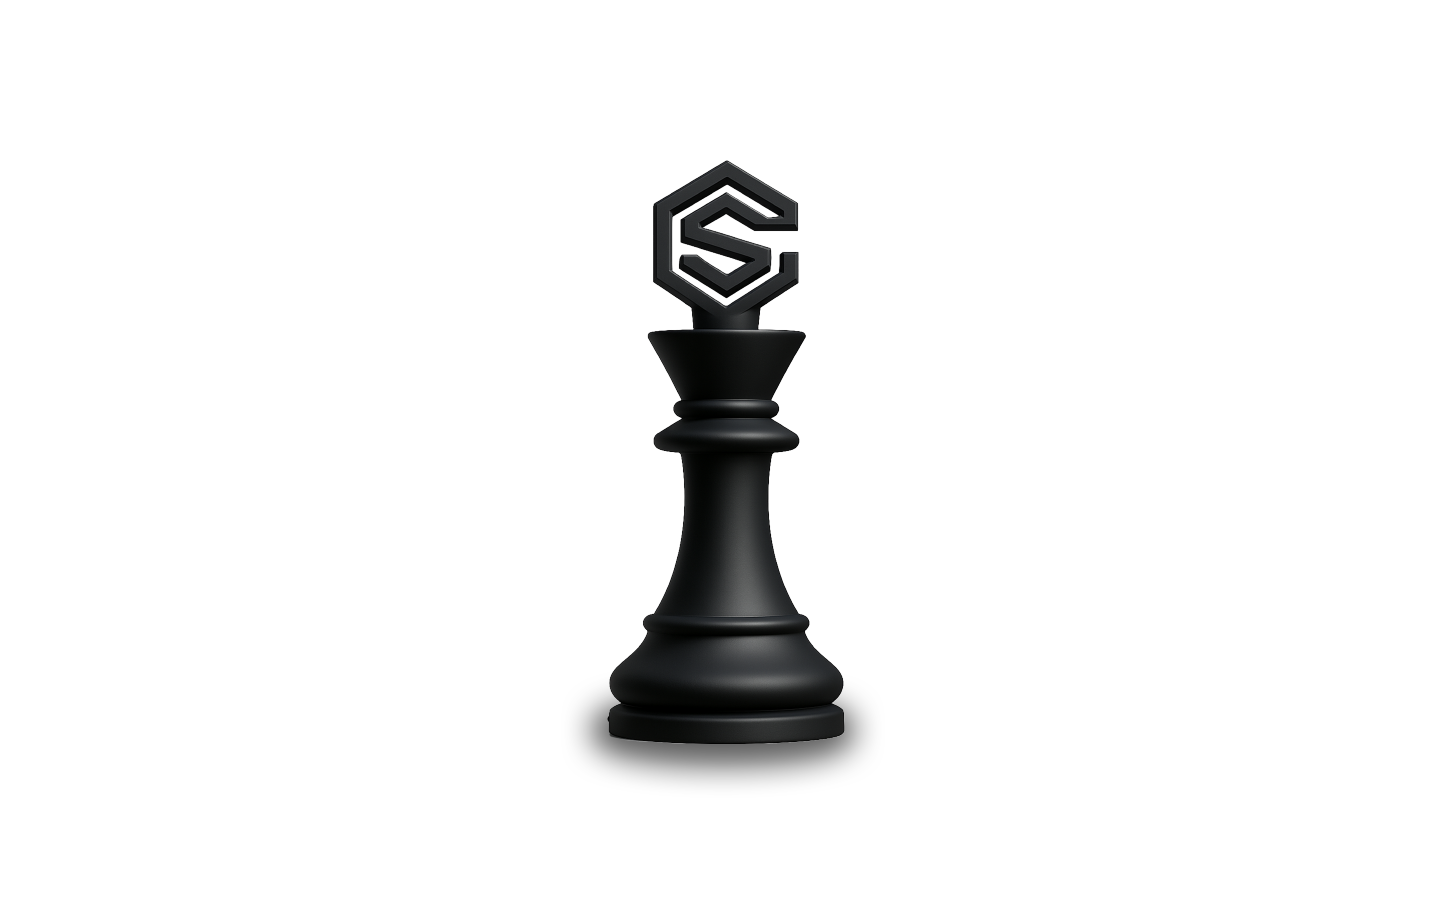
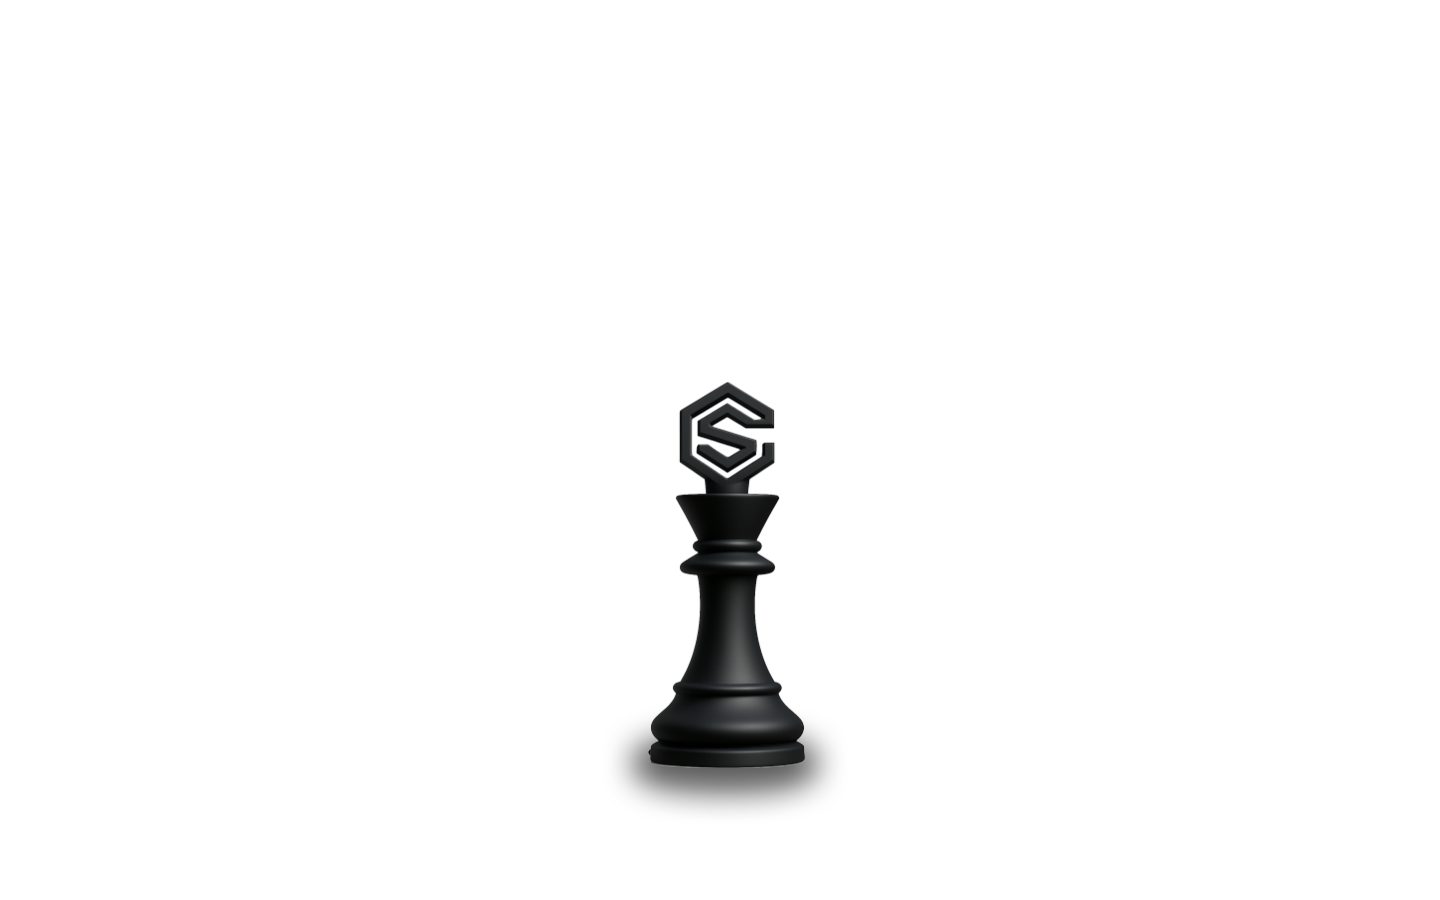
Completed the landing page desgin

Changed region(s): [[0.4062, 0.1867, 0.625, 0.9022]]

diff --git a/crmd-testimonial.html b/crmd-testimonial.html
@@ -118,9 +118,54 @@
     display: block;
   }
 
-  /* Hide main title on desktop */
+  /* Desktop title and hand styling */
+  .desktop-title {
+    position: absolute;
+    top: 0;
+    left: 0;
+    width: 100vw;
+    height: 100vh;
+    object-fit: cover;
+    object-position: center;
+    z-index: 25;
+    opacity: 0;
+  }
+
+  .desktop-hand {
+    position: absolute;
+    top: 0;
+    left: 0;
+    width: 100vw;
+    height: 100vh;
+    object-fit: cover;
+    object-position: center;
+    z-index: 24;
+    opacity: 0;
+    transform: translateX(100%) translateY(-100%);
+  }
+
+  /* Hide main title on desktop, show desktop elements */
   @media (min-width: 769px) {
     .main-title-picture {
+      display: none;
+    }
+
+    .desktop-title {
+      display: block;
+    }
+
+    .desktop-hand {
+      display: block;
+    }
+  }
+
+  /* Hide desktop elements on mobile */
+  @media (max-width: 768px) {
+    .desktop-title {
+      display: none;
+    }
+
+    .desktop-hand {
       display: none;
     }
   }
@@ -159,6 +204,10 @@
       <img src="Assests/crmd_landing_mobile_title.png" class="main-title-img" alt="CRMD - The Grand Chessboard"
         id="mainTitle">
     </picture>
+
+    <!-- Desktop elements -->
+    <img src="Assests/crmd_landing_desktop_title.png" class="desktop-title" alt="CRMD Desktop Title" id="desktopTitle">
+    <img src="Assests/crmd_landing_desktop_hand.png" class="desktop-hand" alt="Desktop Hand" id="desktopHand">
   </div>
 </body>
 
@@ -217,15 +266,37 @@
               console.log('Background vibration completed! King is now still and interactive.');
               // No breathing effect - king stays completely still
 
-              // Animate title image after king lands and vibration completes
-              anime({
-                targets: '.main-title-picture',
-                transform: ['translate(-50%, calc(-50% + 50px))', 'translate(-50%, -50%)'],
-                opacity: [0, 1],
-                duration: 800,
-                delay: 200, // Small delay after vibration
-                easing: 'easeOutQuad'
-              });
+              // Different animations for desktop vs mobile
+              if (isDesktop) {
+                // Desktop: Animate title and hand simultaneously
+                anime({
+                  targets: '#desktopTitle',
+                  opacity: [0, 1],
+                  duration: 800,
+                  delay: 200,
+                  easing: 'easeOutQuad'
+                });
+
+                anime({
+                  targets: '#desktopHand',
+                  translateX: ['100%', '0%'],
+                  translateY: ['-100%', '0%'],
+                  opacity: [0, 1],
+                  duration: 1200,
+                  delay: 200,
+                  easing: 'easeOutQuad'
+                });
+              } else {
+                // Mobile: Animate title image as before
+                anime({
+                  targets: '.main-title-picture',
+                  transform: ['translate(-50%, calc(-50% + 50px))', 'translate(-50%, -50%)'],
+                  opacity: [0, 1],
+                  duration: 800,
+                  delay: 200,
+                  easing: 'easeOutQuad'
+                });
+              }
 
               // Wait for text animations to complete, then transition to colored king
               setTimeout(() => {
